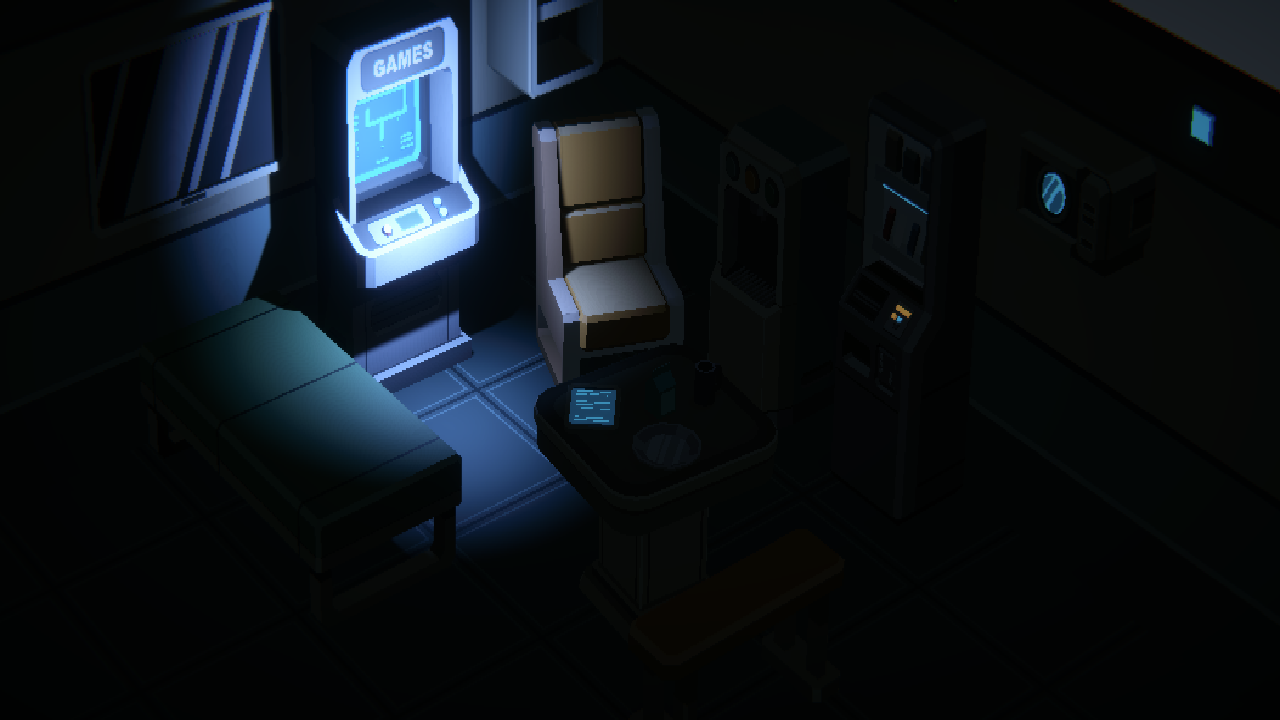
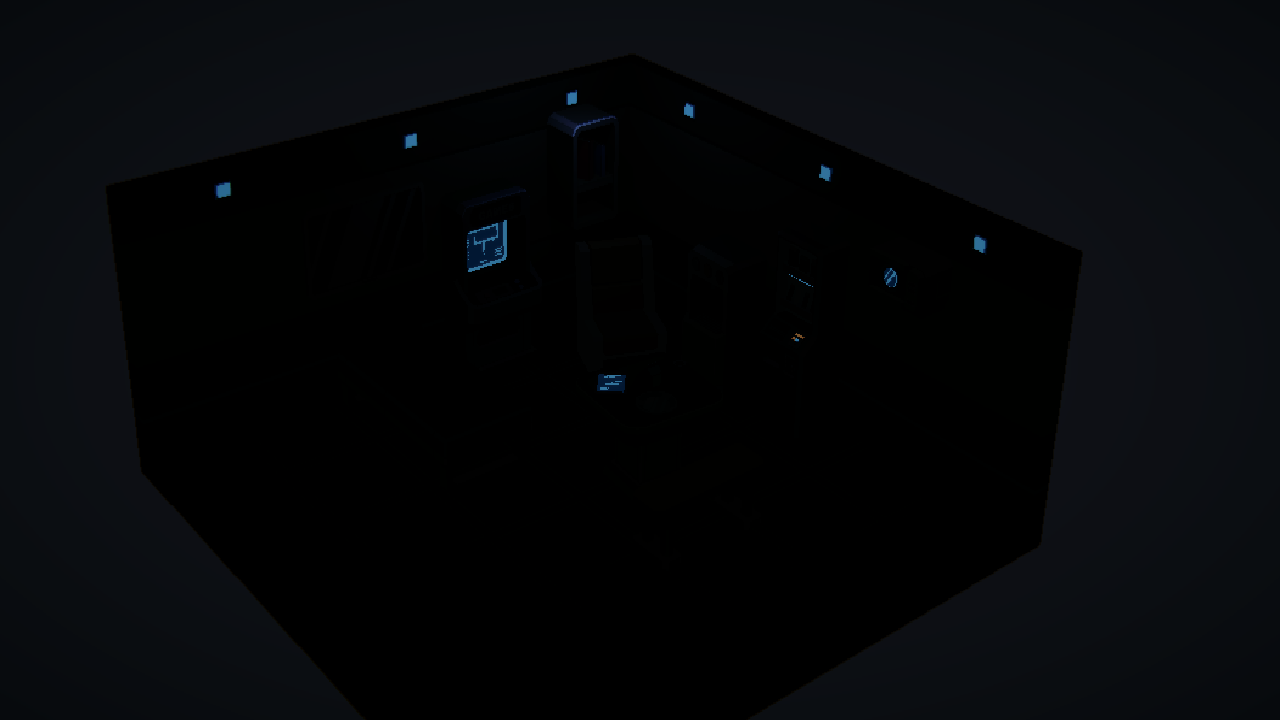
Phase 0+1: fix color-temp no-op bug, add shadow_strength + skybox tint + Neutral tonemapping
- set_light_properties now forces m_UseColorTemperature=true whenever
  color_temperature is set (confirmed both scene lights had it false
  the whole project history -> every past color_temperature write was
  a silent no-op)
- added shadow_strength lever (separate from shadow_type) to express
  soft_ambient vs noir shadow darkness
- added skybox tint (r,g,b) lever, free color wash on top of any HDRI
  since ambient is skybox-driven here too
- added Neutral Tonemapping override via ensure_scene_ready() (project
  had NONE at all before). A/B tested None/Neutral/ACES live on the
  real clean baseline: None and Neutral are nearly identical
  (mean~83-85), ACES measured meaningfully darker (mean~53) from its
  shadow-crushing filmic toe -- wrong direction for a project whose
  #1 recurring bug has been accidental crushing. Neutral chosen.
- agent.py: added explicit warning against stacking a cool RGB color
  AND a cool color_temperature on the same light (now that temp
  actually works, double-cooling silently crushed results in testing)
- re-captured scene baseline+light data on the corrected setup
  (mean=84.8, p90=98.0)
- validated live: horror + noir mood tests run clean end-to-end,
  no regressions, no new crush pattern from the double-cooling bug
- flagged, not fixed: grading-severity guardrail may overcount
  intentional saturation=-100 B&W noir shots as crush risk (noir test
  produced a genuinely good, legible monochrome frame that got
[…]

diff --git a/agent/src/unity_mood_lighting_agent/unity_bridge.py b/agent/src/unity_mood_lighting_agent/unity_bridge.py
@@ -539,6 +539,8 @@ class LightProperties(BaseModel):
     range: float | None = Field(default=None, description="World-space units the light reaches (Point/Spot only) — small = a tight contained pool, large = floods the whole room evenly. Compare against get_scene_bounds()'s diagonal, not a fixed number.")
     spot_angle: float | None = Field(default=None, description="Degrees, full cone width (Spot only) — narrow = a tight dramatic beam, wide = a broad soft wash.")
     shadow_type: str | None = Field(default=None, description="'none', 'hard', or 'soft' — whether this light casts a shadow at all. Lights created fresh default to 'none' (no shadow), which makes real directional shadow shape impossible regardless of intensity/range.")
+    shadow_strength: float | None = Field(default=None, description="0-1 — how dark the shadow actually renders (0=invisible, 1=full black), independent of shadow_type.")
+    use_color_temperature: bool | None = Field(default=None, description="Whether color_temperature actually affects this light's rendered color at all — if False, color_temperature is a silent no-op and only the color (RGB) field is visible. set_light_properties always forces this True whenever color_temperature is given.")
 
 
 def get_light_properties(target: str) -> LightProperties:
@@ -580,6 +582,8 @@ def get_light_properties(target: str) -> LightProperties:
         range=raw.get("m_Range"),
         spot_angle=raw.get("m_SpotAngle"),
         shadow_type=shadow_type,
+        shadow_strength=shadows.get("m_Strength"),
+        use_color_temperature=raw.get("m_UseColorTemperature"),
     )
 
 
@@ -592,14 +596,21 @@ def set_light_properties(
     range: float | None = None,
     spot_angle: float | None = None,
     shadow_type: str | None = None,
+    shadow_strength: float | None = None,
 ) -> None:
     """Set a Light component's mood-relevant fields by instance_id. Omit a
     field to leave it unchanged. color is (r, g, b), each 0-1.
-    color_temperature is Kelvin and only visibly applies while
-    m_UseColorTemperature is true (true by default on this scene's light —
-    not managed here, see docs if that ever needs toggling). range is
-    world-space units (Point/Spot only). spot_angle is degrees, full cone
-    width (Spot only). shadow_type is 'none'/'hard'/'soft'."""
+    color_temperature is Kelvin — ALWAYS forces m_UseColorTemperature=true
+    in the same call (confirmed live 2026-11-26: Unity's own Light default
+    is false, meaning color_temperature was previously a silent no-op on
+    both this scene's original lights the whole time; do not revert this
+    without re-confirming). range is world-space units (Point/Spot only).
+    spot_angle is degrees, full cone width (Spot only). shadow_type is
+    'none'/'hard'/'soft'. shadow_strength is 0-1 — how dark the shadow
+    actually renders (0=invisible, 1=full black), independent of
+    shadow_type; lets soft_ambient (shadows barely registering) and noir
+    (full-strength near-black shadows) actually differ, which shadow_type
+    alone can't express."""
     calls: list[tuple[str, object]] = []
     if intensity is not None:
         calls.append(("m_Intensity", intensity))
@@ -607,6 +618,7 @@ def set_light_properties(
         calls.append(("m_Color", {"r": color[0], "g": color[1], "b": color[2], "a": 1.0}))
     if color_temperature is not None:
         calls.append(("m_ColorTemperature", color_temperature))
+        calls.append(("m_UseColorTemperature", True))
     if bounce_intensity is not None:
         calls.append(("m_BounceIntensity", bounce_intensity))
     if range is not None:
@@ -615,6 +627,8 @@ def set_light_properties(
         calls.append(("m_SpotAngle", spot_angle))
     if shadow_type is not None:
         calls.append(("m_Shadows.m_Type", _SHADOW_TYPE_NAME_TO_INT[shadow_type]))
+    if shadow_strength is not None:
+        calls.append(("m_Shadows.m_Strength", shadow_strength))
 
     for field, value in calls:
         subprocess.run(
@@ -746,6 +760,34 @@ def create_light(
             "m_Shadows.m_Type",
             "--value",
             str(_SHADOW_TYPE_NAME_TO_INT["soft"]),
+            "--project-path",
+            PROJECT_PATH,
+        ],
+        capture_output=True,
+        text=True,
+        check=True,
+    )
+
+    # Confirmed live (2026-11-26): Unity's own Light component default is
+    # m_UseColorTemperature=false, meaning set_light_properties'
+    # color_temperature param is a SILENT NO-OP on any light where this
+    # isn't explicitly forced true — confirmed on this scene's ORIGINAL 2
+    # lights too, every color_temperature value this project has ever set
+    # (across this entire project's history) rendered through m_Color
+    # alone. Forcing it true on every new light so this doesn't repeat.
+    subprocess.run(
+        [
+            UNITY_EXE,
+            "command",
+            "component set_field",
+            "--target",
+            instance_id,
+            "--component",
+            "Light",
+            "--field",
+            "m_UseColorTemperature",
+            "--value",
+            "true",
             "--project-path",
             PROJECT_PATH,
         ],
@@ -1226,27 +1268,36 @@ def list_available_skyboxes() -> list[SkyboxOption]:
     return [SkyboxOption(**entry) for entry in raw]
 
 
-def set_skybox(skybox_id: str, exposure: float = 1.0, rotation: float = 0.0) -> str:
+def set_skybox(skybox_id: str, exposure: float = 1.0, rotation: float = 0.0, tint: tuple[float, float, float] | None = None) -> str:
     """Swap the scene's skybox to one of the HDRIs listed by
     list_available_skyboxes(), by id. exposure (default 1.0, Unity's own
     neutral default) scales overall sky brightness; rotation (0-360
     degrees) spins the HDRI around the vertical axis, useful for moving
-    a sun/bright spot out of a bad position. Uses Unity's built-in
-    Skybox/Panoramic shader (pipeline-agnostic — URP's DrawSkyboxPass
-    just renders whatever RenderSettings.skybox points at, confirmed
-    live against this project's URP shader property list: _MainTex,
-    _Mapping, _ImageType, _Exposure, _Rotation, _Tint). Mapping is fixed
-    to Latitude-Longitude (equirectangular) since that's the format every
-    polyhaven.com HDRI download uses — confirmed live, not guessed.
-    Creates one real .mat asset per skybox under Assets/HDRIs/Materials/
-    (reused on repeat calls, not recreated). Calls
-    DynamicGI.UpdateEnvironment() so ambient light/reflections pick up
-    the change immediately, not just the visible dome."""
+    a sun/bright spot out of a bad position. tint (r, g, b, each 0-1,
+    default neutral (0.5, 0.5, 0.5) — Unity's Skybox/Panoramic shader
+    multiplies _Tint by 2 internally, so 0.5 is the no-op midpoint, not
+    0 or 1) color-shifts the whole sky AND, since ambient is
+    skybox-driven, the scene's indoor ambient light too — a real,
+    nearly-free color lever on top of whichever HDRI is chosen (red for
+    an ominous sky, green for toxic/alien, etc. — confirmed 2026-11-26,
+    this was previously a hardcoded dead parameter on the exact same
+    shader already in use). Uses Unity's built-in Skybox/Panoramic shader
+    (pipeline-agnostic — URP's DrawSkyboxPass just renders whatever
+    RenderSettings.skybox points at, confirmed live against this
+    project's URP shader property list: _MainTex, _Mapping, _ImageType,
+    _Exposure, _Rotation, _Tint). Mapping is fixed to Latitude-Longitude
+    (equirectangular) since that's the format every polyhaven.com HDRI
+    download uses — confirmed live, not guessed. Creates one real .mat
+    asset per skybox under Assets/HDRIs/Materials/ (reused on repeat
+    calls, not recreated). Calls DynamicGI.UpdateEnvironment() so ambient
+    light/reflections pick up the change immediately, not just the
+    visible dome."""
     options = {opt.id: opt for opt in list_available_skyboxes()}
     if skybox_id not in options:
         valid = ", ".join(sorted(options))
         return f"Error: unknown skybox_id '{skybox_id}'. Valid ids: {valid}"
     filename = options[skybox_id].filename
+    tint_r, tint_g, tint_b = tint if tint is not None else (0.5, 0.5, 0.5)
 
     script = f"""
 var texPath = "Assets/HDRIs/{filename}";
@@ -1269,7 +1320,7 @@ mat.SetFloat("_Mapping", 1f);
 mat.SetFloat("_ImageType", 0f);
 mat.SetFloat("_Exposure", {exposure}f);
 mat.SetFloat("_Rotation", {rotation}f);
-mat.SetColor("_Tint", new UnityEngine.Color(0.5f, 0.5f, 0.5f, 0.5f));
+mat.SetColor("_Tint", new UnityEngine.Color({tint_r}f, {tint_g}f, {tint_b}f, 0.5f));
 UnityEditor.EditorUtility.SetDirty(mat);
 UnityEngine.RenderSettings.skybox = mat;
 UnityEngine.DynamicGI.UpdateEnvironment();
@@ -1286,7 +1337,7 @@ return new {{ ok = true, material_path = matPath }};
     data = json.loads(result.stdout)
     if not data.get("ok"):
         return f"Error: {data.get('error', 'unknown failure setting skybox')}"
-    return f"Skybox set to '{skybox_id}' ({options[skybox_id].display_name}), exposure={exposure}, rotation={rotation}."
+    return f"Skybox set to '{skybox_id}' ({options[skybox_id].display_name}), exposure={exposure}, rotation={rotation}, tint=({tint_r}, {tint_g}, {tint_b})."
 
 
 # --- Scene selection ----------------------------------------------------
@@ -1461,6 +1512,30 @@ if (vol == null) {
 }
 report["volume_created"] = volumeCreated;
 
+// 1b. Tonemapping override — confirmed live 2026-11-26: this project's
+// Volume profile had NO Tonemapping override at all, meaning URP falls
+// back to "None" mode (no filmic curve at all) instead of any tonemap
+// pass. A/B tested live on the real clean baseline: None (mean=83.4,
+// p90=97.0) and Neutral (mean=84.8, p90=98.0) are nearly identical —
+// Neutral adds gentle highlight handling with no real shadow cost.
+// ACES (mean=52.9, p90=66.0) measured MEANINGFULLY darker — its
+// characteristic filmic shadow-crushing toe. Given this project's
+// single most recurring problem across its entire history has been
+// scenes accidentally crushing to black, deliberately picking the
+// MORE shadow-crushing tonemapper would work directly against that —
+// Neutral chosen instead, not ACES, specifically for this reason.
+UnityEngine.Rendering.Universal.Tonemapping tonemapping;
+bool tonemappingExists = vol.profile.TryGet<UnityEngine.Rendering.Universal.Tonemapping>(out tonemapping);
+bool tonemappingAdded = false;
+if (!tonemappingExists) {
+    tonemapping = vol.profile.Add<UnityEngine.Rendering.Universal.Tonemapping>(true);
+    tonemapping.mode.overrideState = true;
+    tonemapping.mode.value = UnityEngine.Rendering.Universal.TonemappingMode.Neutral;
+    tonemappingAdded = true;
+}
+report["tonemapping_added"] = tonemappingAdded;
+report["tonemapping_mode"] = tonemapping.mode.value.ToString();
+
 // 2. Every light -> Realtime mode.
 var lights = UnityEngine.Object.FindObjectsByType<UnityEngine.Light>(UnityEngine.FindObjectsSortMode.None);
 int lightsFixed = 0;
@@ -1501,8 +1576,15 @@ def ensure_scene_ready(scene_path: str | None = None) -> dict:
     visible in real time (see docs/unity-lighting-rendering-concepts.md):
     calls capture_scene_baseline() FIRST (guarantees the real original is
     saved before anything below touches it), then creates a missing
-    Global Volume, forces every Light + ReflectionProbe to Realtime mode
-    (Baked/Mixed would silently freeze mood changes until a manual
+    Global Volume, adds a Neutral Tonemapping override if none exists
+    (confirmed live 2026-11-26: this project rendered with NO tonemapping
+    at all for its entire history; A/B tested None/Neutral/ACES on the
+    real clean baseline — ACES measured meaningfully darker from its
+    shadow-crushing filmic toe, the wrong direction for a project whose
+    single biggest recurring bug has been accidental crushing; Neutral
+    chosen instead, nearly identical to having none at all but with
+    gentle highlight handling), forces every Light + ReflectionProbe to
+    mode (Baked/Mixed would silently freeze mood changes until a manual
     rebake), and creates one baseline light if the scene has none at
     all. Deterministic, code-orchestrated — same tier as
     cleanup_agent_lights()/reset_post_processing(), called once at the

diff --git a/agent/src/unity_mood_lighting_agent/tools.py b/agent/src/unity_mood_lighting_agent/tools.py
@@ -212,12 +212,13 @@ def set_light_properties(
     range: float | None = None,
     spot_angle: float | None = None,
     shadow_type: str | None = None,
+    shadow_strength: float | None = None,
 ) -> str:
     """Set a Light's intensity, color (RGB, each 0-1, give all 3 together),
     color temperature in Kelvin (lower=warmer, e.g. 1800=candle, 6500=cool
-    daylight), bounce/indirect intensity, range, spot_angle, and/or
-    shadow_type. Omit any field to leave it unchanged. target is the
-    instance_id from the scene context.
+    daylight), bounce/indirect intensity, range, spot_angle, shadow_type,
+    and/or shadow_strength. Omit any field to leave it unchanged. target is
+    the instance_id from the scene context.
 
     range (Point/Spot only, world-space units the light reaches) is the
     lever that controls whether a light reads as a TIGHT CONTAINED POOL
@@ -235,7 +236,14 @@ def set_light_properties(
     'none' on a light you want to cast real shadow shape, set it
     explicitly — no amount of intensity or range alone produces a visible
     shadow if shadow_type is 'none', that is a hard requirement, not a
-    style choice."""
+    style choice.
+
+    shadow_strength (0-1) is a SEPARATE lever from shadow_type — it's how
+    DARK the shadow actually renders (0=invisible, 1=full black), not
+    whether a shadow exists at all. This is what actually separates a
+    soft_ambient mood (shadows present but barely registering, e.g.
+    0.2-0.4) from a noir mood (full-strength, near-black shadows, e.g.
+    0.9-1.0) — shadow_type alone can't express that difference."""
     color = None
     if color_r is not None or color_g is not None or color_b is not None:
         if color_r is None or color_g is None or color_b is None:
@@ -262,6 +270,8 @@ def set_light_properties(
         return f"Rejected: spot_angle {spot_angle} is out of Unity's valid range [1, 179] degrees."
     if shadow_type is not None and shadow_type not in ("none", "hard", "soft"):
         return f"Rejected: shadow_type must be 'none', 'hard', or 'soft', got {shadow_type!r}."
+    if shadow_strength is not None and not (0 <= shadow_strength <= 1):
+        return f"Rejected: shadow_strength {shadow_strength} must be in [0, 1]."
 
     _set_light_properties(
         target=target,
@@ -272,6 +282,7 @@ def set_light_properties(
         range=range,
         spot_angle=spot_angle,
         shadow_type=shadow_type,
+        shadow_strength=shadow_strength,
     )
     current = get_light_properties(target)
     return f"Updated light {target}: {current}"
@@ -497,14 +508,34 @@ def list_skyboxes() -> str:
 
 
 @function_tool
-def set_skybox(skybox_id: str, exposure: float = 1.0, rotation: float = 0.0) -> str:
+def set_skybox(
+    skybox_id: str,
+    exposure: float = 1.0,
+    rotation: float = 0.0,
+    tint_r: float | None = None,
+    tint_g: float | None = None,
+    tint_b: float | None = None,
+) -> str:
     """Swap the scene's skybox to one of list_skyboxes()'s ids. exposure
     (default 1.0) scales overall sky brightness — lower for a darker,
     more oppressive mood; rotation (0-360 degrees) spins the HDRI,
     useful for moving a bright spot out of a bad position. This changes
     indoor ambient light color/intensity too (this scene's ambient mode
-    is Skybox-driven), not just a visible backdrop."""
-    return _set_skybox(skybox_id=skybox_id, exposure=exposure, rotation=rotation)
+    is Skybox-driven), not just a visible backdrop.
+
+    tint_r/tint_g/tint_b (each 0-1, give all three together, default
+    neutral 0.5 each if omitted — 0.5 is the shader's NEUTRAL midpoint,
+    NOT 0 or 1) color-shifts the whole sky AND the indoor ambient light
+    it drives, on top of whichever HDRI is chosen — a real, nearly-free
+    extra color lever: push toward red for an ominous/bloody sky, green
+    for toxic/alien, etc., without needing a different HDRI at all."""
+    if tint_r is not None or tint_g is not None or tint_b is not None:
+        if tint_r is None or tint_g is None or tint_b is None:
+            return "Error: give all three of tint_r, tint_g, tint_b together, not just some."
+        tint = (tint_r, tint_g, tint_b)
+    else:
+        tint = None
+    return _set_skybox(skybox_id=skybox_id, exposure=exposure, rotation=rotation, tint=tint)
 
 
 @function_tool

diff --git a/agent/src/unity_mood_lighting_agent/agent.py b/agent/src/unity_mood_lighting_agent/agent.py
@@ -320,7 +320,19 @@ agent = Agent(
         "arbitrary number.\n"
         "- FALLOFF_RANGE: set_light_properties' range/spot_angle. "
         "Contained pool vs floods-the-room, independent of intensity.\n"
-        "- COLOR: set_light_properties' color/color_temperature.\n"
+        "- COLOR: set_light_properties' color/color_temperature. "
+        "IMPORTANT (2026-11-26, fixed a real bug this project had the "
+        "whole time): color_temperature now genuinely affects the "
+        "light's rendered color (it used to silently do nothing). color "
+        "and color_temperature are NOT independent — Unity multiplies "
+        "them together. Setting BOTH to a cool/blue value at once (e.g. "
+        "a blue-tinted color AND a very high Kelvin like 16000) "
+        "double-cools and double-dims the light, not twice as 'cool', "
+        "often crushing the scene dark even with modest intensity. Pick "
+        "ONE: either use color_temperature alone with a near-white "
+        "color (1,1,1), or use color alone with color_temperature left "
+        "near a neutral default (~6500K) — don't stack a cool color AND "
+        "a cool temperature on the same light.\n"
         "- AMBIENT: set_ambient. The scene-wide uniform floor under "
         "every shadow — see the dedicated note on this below.\n"
         "- SKYBOX: list_skyboxes then set_skybox. Changes indoor ambient "

diff --git a/agent/src/unity_mood_lighting_agent/main.py b/agent/src/unity_mood_lighting_agent/main.py
@@ -373,7 +373,8 @@ async def run(task: str, case_name: str | None = None, scene_path: str | None = 
     print(
         f"[scene] ready: {readiness['light_count']} light(s) ({readiness['lights_fixed']} set to Realtime), "
         f"{readiness['probe_count']} probe(s) ({readiness['probes_fixed']} set to Realtime), "
-        f"volume_created={readiness['volume_created']}, baseline_light_created={readiness['baseline_light_created']}"
+        f"volume_created={readiness['volume_created']}, baseline_light_created={readiness['baseline_light_created']}, "
+        f"tonemapping_added={readiness.get('tonemapping_added')}, tonemapping_mode={readiness.get('tonemapping_mode')}"
     )
 
     # Deterministic lever-usage tracking (2026-11-25, Eran's call): real
